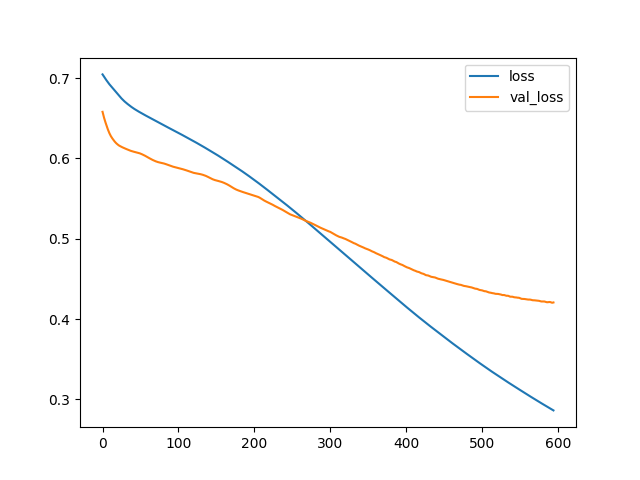
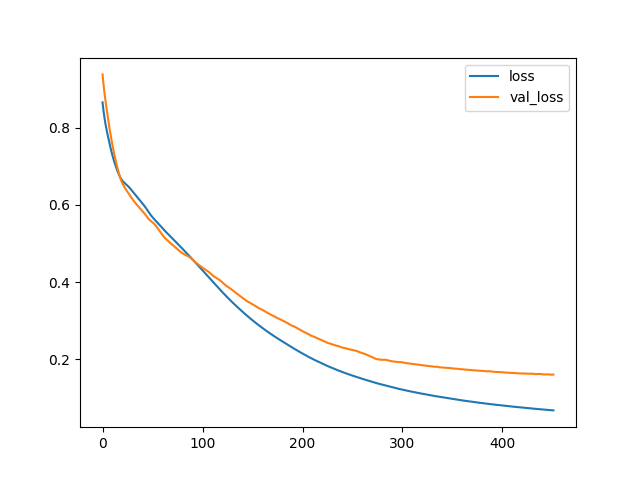
mas red

diff --git a/deep/2.py b/deep/2.py
@@ -28,8 +28,8 @@ y_train = df_train['Class']
 y_valid = df_valid['Class']
 
 model = keras.Sequential([
-    layers.Dense(4, activation='relu', input_shape=[33]),
-    layers.Dense(4, activation='relu'),    
+    layers.Dense(20, activation='relu', input_shape=[33]),
+    layers.Dense(20, activation='relu'),    
     layers.Dense(1, activation='sigmoid'),
 ])
 
